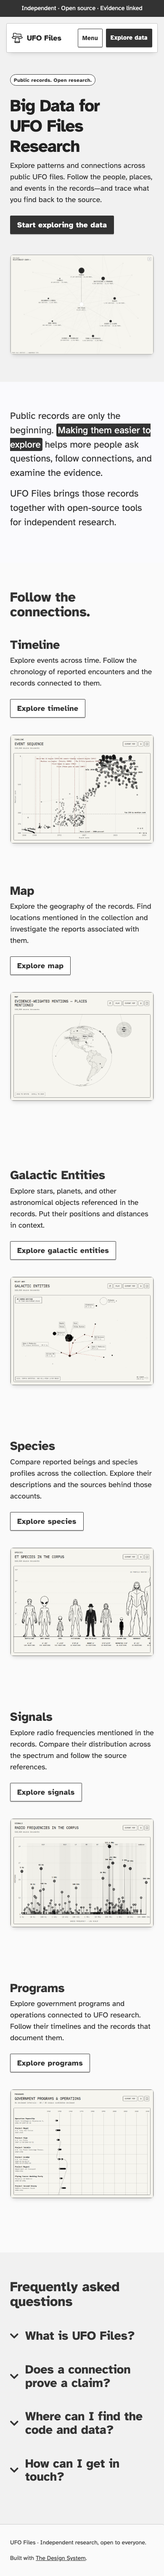
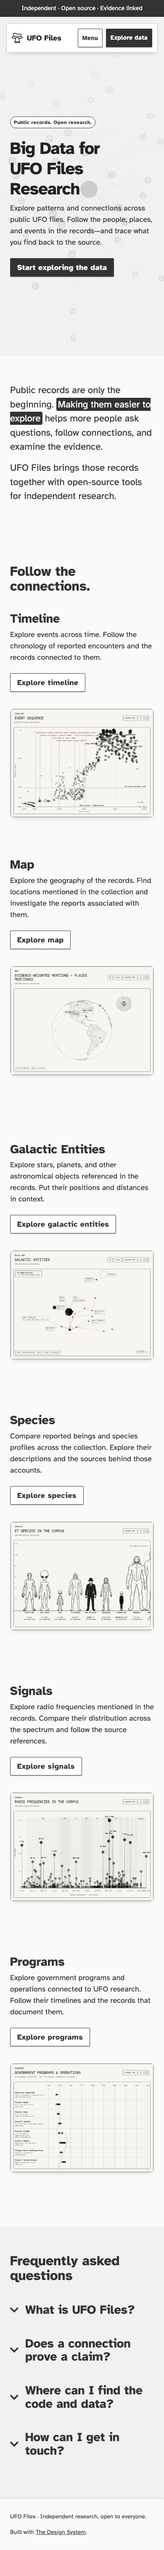
Use graph SVG geometry as the intro background

diff --git a/styles.css b/styles.css
@@ -11,14 +11,21 @@ header.island { max-width: calc(100% - 2rem); }
 .brand img { object-fit: contain; }
 header nav .primaryBtn { margin-left: 1.25rem; }
 .intro { min-height: 850px; min-height: min(100svh, 1000px); padding: 11rem 0 7rem; }
+.intro::before {
+  content: "";
+  position: absolute;
+  inset: 0;
+  background: url("assets/intro-graph.svg") 75% center / auto 120% no-repeat;
+  opacity: .55;
+  mask-image: linear-gradient(to right, transparent 20%, #000 75%);
+  pointer-events: none;
+}
 .intro .wrapper { position: relative; margin-top: 0; }
 .hero-copy { width: 51%; }
 .intro h1 { font-size: var(--font-size-1); color: var(--color-brand-dark); letter-spacing: -.025em; }
 .intro p { max-width: 100%; }
 .intro .hero-copy > p:not(.badge) { max-width: 34rem; margin: 1.25rem 0 1.5rem; }
 .intro .badge { margin-bottom: 1.5rem; }
-.hero-preview { display: block; position: absolute; left: 58%; top: 50%; transform: translateY(-50%); width: 850px; border-radius: .5rem; overflow: hidden; border: var(--border); box-shadow: var(--shadow); }
-.intro .hero-preview img { display: block; position: static; width: 100%; max-width: none; height: auto; transform: none; margin: 0; }
 .feature { width: 100%; }
 .feature .wrapper { margin-inline: auto; }
 .feature img { height: auto; border: var(--border); border-radius: .5rem; box-shadow: var(--shadow); }
@@ -45,7 +52,6 @@ footer p { font-size: var(--font-size-small); }
 @media (max-width: 768px) {
   .intro h1 { font-size: 2.75rem; }
   .hero-copy { width: 56%; }
-  .hero-preview { left: 64%; width: 720px; }
   .feature img { width: 100%; }
 }
 @media (max-width: 640px) {
@@ -61,11 +67,16 @@ footer p { font-size: var(--font-size-small); }
   header nav:has(.menu-toggle[hidden]) { flex-basis: 100%; justify-content: space-between; }
   header nav ul.menu-open { display: flex; position: absolute; left: 0; right: 0; top: calc(100% + .5rem); padding: 1rem; background: white; border: var(--border); border-radius: .25rem; box-shadow: var(--shadow); }
   header nav ul.menu-open a { display: block; padding: .75rem .5rem; }
-  .intro { min-height: auto; padding: 11rem 0 4rem; }
+  .intro { min-height: 100svh; padding: 11rem 0 5rem; }
+  .intro::before {
+    background-position: 60% center;
+    background-size: auto 100%;
+    opacity: .16;
+    mask-image: linear-gradient(to bottom, transparent, #000 45%, #000);
+  }
   .intro .wrapper { margin: 0; text-align: left; align-items: stretch; }
   .hero-copy { width: 100%; }
   .intro h1 { font-size: 2.5rem; }
-  .hero-preview { position: static; transform: none; width: 100%; margin-top: 2.5rem; }
   section:not(.intro) { padding: 4rem 0; }
   .footer-inner { flex-direction: column; }
 }

diff --git a/index.html b/index.html
@@ -41,9 +41,6 @@
           <p>Explore patterns and connections across public UFO files. Follow the people, places, and events in the records—and trace what you find back to the source.</p>
           <a class="btn btnLrg primaryBtn" href="https://ufo-files.github.io/relationship-graph-builder/">Start exploring the data</a>
         </div>
-        <a class="hero-preview" href="https://ufo-files.github.io/relationship-graph-builder/" aria-label="Open the UFO Files relationship graph">
-          <img src="assets/relationship-graph-main.png" width="1440" height="1000" alt="Relationship graph connecting people, institutions, places, events, and documents in UFO Files.">
-        </a>
       </div>
     </section>
     <section class="statement" aria-label="Our approach">

diff --git a/scripts/test_homepage.js b/scripts/test_homepage.js
@@ -15,8 +15,8 @@ for (const [, attribute, value] of html.matchAll(/\b(href|src)="([^"]+)"/g)) {
     assert.ok(fs.statSync(path.join(root, value)).size > 0, `Missing ${attribute}: ${value}`);
   }
 }
-for (const name of ['style.css', 'reset.css']) {
-  const stylesheet = path.join(root, 'src/css', name);
+for (const name of ['src/css/style.css', 'src/css/reset.css', 'styles.css']) {
+  const stylesheet = path.join(root, name);
   const css = fs.readFileSync(stylesheet, 'utf8');
   for (const [, resource] of css.matchAll(/url\(['"]?([^)'"\s]+)['"]?\)/g)) {
     assert.ok(fs.existsSync(path.resolve(path.dirname(stylesheet), resource)), `Missing CSS resource: ${resource}`);

diff --git a/README.md b/README.md
@@ -11,7 +11,9 @@ revision `f89ec1a5b233fb94fa4779aa426d928d3f59bfc9`. The original reset,
 stylesheet, and locally served Atkinson Hyperlegible / IBM Plex Mono fonts are
 in `src/`. UFO Files adaptations live in `styles.css`.
 
-The page uses the template’s island header, intro, statement, feature, and FAQ
+The intro background uses node and edge geometry from the existing graph SVG,
+with labels removed for a decorative background. The page uses the template’s
+island header, intro, statement, feature, and FAQ
 structure, with features for Timeline, Map, Galactic Entities, Species, Signals,
 and Programs. Feature images come from the research app’s screenshot gallery;
 each button opens its corresponding view. Navigation is progressively enhanced for mobile; native disclosure
